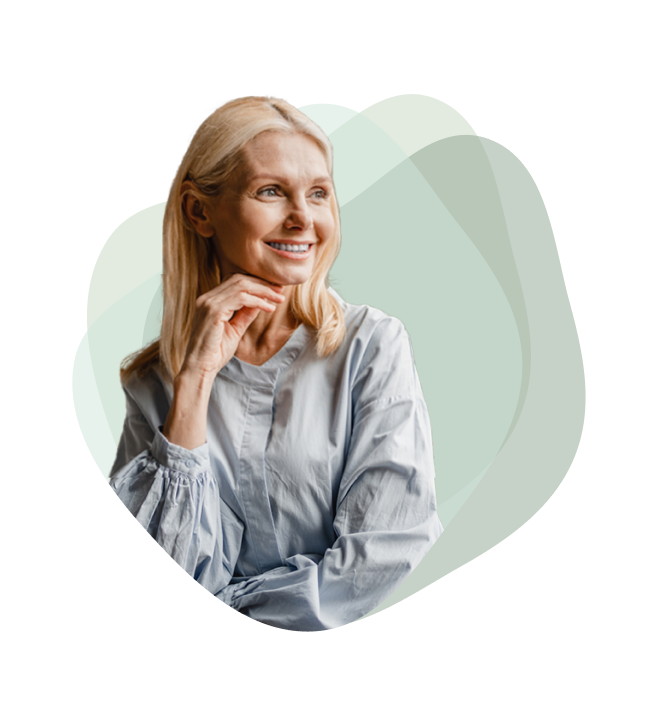
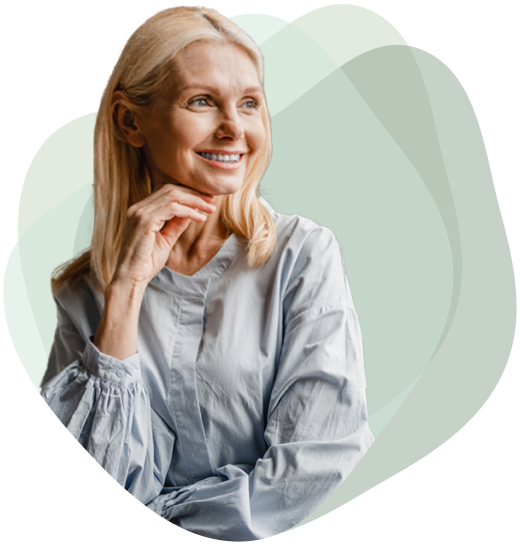
added about section

diff --git a/dist/output.css b/dist/output.css
@@ -525,6 +525,10 @@ Ensure the default browser behavior of the `hidden` attribute.
   position: absolute;
 }
 
+.z-10 {
+  z-index: 10;
+}
+
 .m-auto {
   margin: auto;
 }
@@ -561,6 +565,14 @@ Ensure the default browser behavior of the `hidden` attribute.
   margin-top: 2.25rem;
 }
 
+.mt-40 {
+  margin-top: 10rem;
+}
+
+.mt-12 {
+  margin-top: 3rem;
+}
+
 .block {
   display: block;
 }
@@ -579,6 +591,10 @@ Ensure the default browser behavior of the `hidden` attribute.
 
 .h-12 {
   height: 3rem;
+}
+
+.h-\[100px\] {
+  height: 100px;
 }
 
 .w-12 {
@@ -645,6 +661,26 @@ Ensure the default browser behavior of the `hidden` attribute.
   width: 710px;
 }
 
+.w-\[683px\] {
+  width: 683px;
+}
+
+.w-\[562px\] {
+  width: 562px;
+}
+
+.w-\[750px\] {
+  width: 750px;
+}
+
+.w-\[700px\] {
+  width: 700px;
+}
+
+.w-\[600px\] {
+  width: 600px;
+}
+
 .translate-x-\[-60px\] {
   --tw-translate-x: -60px;
   transform: translate(var(--tw-translate-x), var(--tw-translate-y)) rotate(var(--tw-rotate)) skewX(var(--tw-skew-x)) skewY(var(--tw-skew-y)) scaleX(var(--tw-scale-x)) scaleY(var(--tw-scale-y));
@@ -677,6 +713,51 @@ Ensure the default browser behavior of the `hidden` attribute.
 
 .translate-x-\[-120px\] {
   --tw-translate-x: -120px;
+  transform: translate(var(--tw-translate-x), var(--tw-translate-y)) rotate(var(--tw-rotate)) skewX(var(--tw-skew-x)) skewY(var(--tw-skew-y)) scaleX(var(--tw-scale-x)) scaleY(var(--tw-scale-y));
+}
+
+.translate-x-\[-65px\] {
+  --tw-translate-x: -65px;
+  transform: translate(var(--tw-translate-x), var(--tw-translate-y)) rotate(var(--tw-rotate)) skewX(var(--tw-skew-x)) skewY(var(--tw-skew-y)) scaleX(var(--tw-scale-x)) scaleY(var(--tw-scale-y));
+}
+
+.translate-x-\[-130px\] {
+  --tw-translate-x: -130px;
+  transform: translate(var(--tw-translate-x), var(--tw-translate-y)) rotate(var(--tw-rotate)) skewX(var(--tw-skew-x)) skewY(var(--tw-skew-y)) scaleX(var(--tw-scale-x)) scaleY(var(--tw-scale-y));
+}
+
+.translate-x-\[-22px\] {
+  --tw-translate-x: -22px;
+  transform: translate(var(--tw-translate-x), var(--tw-translate-y)) rotate(var(--tw-rotate)) skewX(var(--tw-skew-x)) skewY(var(--tw-skew-y)) scaleX(var(--tw-scale-x)) scaleY(var(--tw-scale-y));
+}
+
+.translate-y-\[-115px\] {
+  --tw-translate-y: -115px;
+  transform: translate(var(--tw-translate-x), var(--tw-translate-y)) rotate(var(--tw-rotate)) skewX(var(--tw-skew-x)) skewY(var(--tw-skew-y)) scaleX(var(--tw-scale-x)) scaleY(var(--tw-scale-y));
+}
+
+.translate-x-\[664px\] {
+  --tw-translate-x: 664px;
+  transform: translate(var(--tw-translate-x), var(--tw-translate-y)) rotate(var(--tw-rotate)) skewX(var(--tw-skew-x)) skewY(var(--tw-skew-y)) scaleX(var(--tw-scale-x)) scaleY(var(--tw-scale-y));
+}
+
+.translate-y-\[-105px\] {
+  --tw-translate-y: -105px;
+  transform: translate(var(--tw-translate-x), var(--tw-translate-y)) rotate(var(--tw-rotate)) skewX(var(--tw-skew-x)) skewY(var(--tw-skew-y)) scaleX(var(--tw-scale-x)) scaleY(var(--tw-scale-y));
+}
+
+.translate-y-\[-150px\] {
+  --tw-translate-y: -150px;
+  transform: translate(var(--tw-translate-x), var(--tw-translate-y)) rotate(var(--tw-rotate)) skewX(var(--tw-skew-x)) skewY(var(--tw-skew-y)) scaleX(var(--tw-scale-x)) scaleY(var(--tw-scale-y));
+}
+
+.translate-y-\[-220px\] {
+  --tw-translate-y: -220px;
+  transform: translate(var(--tw-translate-x), var(--tw-translate-y)) rotate(var(--tw-rotate)) skewX(var(--tw-skew-x)) skewY(var(--tw-skew-y)) scaleX(var(--tw-scale-x)) scaleY(var(--tw-scale-y));
+}
+
+.translate-y-\[-50px\] {
+  --tw-translate-y: -50px;
   transform: translate(var(--tw-translate-x), var(--tw-translate-y)) rotate(var(--tw-rotate)) skewX(var(--tw-skew-x)) skewY(var(--tw-skew-y)) scaleX(var(--tw-scale-x)) scaleY(var(--tw-scale-y));
 }
 
@@ -787,6 +868,10 @@ Ensure the default browser behavior of the `hidden` attribute.
 
 .leading-10 {
   line-height: 2.5rem;
+}
+
+.leading-\[48px\] {
+  line-height: 48px;
 }
 
 .text-forest {

diff --git a/src/index.html b/src/index.html
@@ -47,7 +47,7 @@
         </section>
         <section class="help mt-24">
             <div class="flex justify-evenly w-[1434px] m-auto">
-                <picture class="translate-x-[-120px]">
+                <picture class="translate-x-[-65px]">
                     <img src="img/help/depression.svg" alt="Девушка в депрессии"  class="w-[590px]">
                 </picture>
                 <div class="flex flex-col">
@@ -79,6 +79,27 @@
                 </div>
             </div>
         </section>
-        
+        <section class="about mt-40">
+            <div class="flex justify-between w-[1434px] m-auto">
+                <div class="flex flex-col self-center">
+                    <div class="h-[100px]">
+                        <h2 class="font-haus text-6xl text-swamp z-10">Обо мне</h2>
+                        <svg width="228" height="141" viewBox="0 0 228 141" fill="none" xmlns="http://www.w3.org/2000/svg" class="zag translate-x-[-22px] translate-y-[-115px]">
+                            <path d="M100.381 2.9729C66.4118 19.7249 17.893 40.2205 3.34919 79.1466C-0.776698 90.1894 9.50924 97.534 18.5839 101.13C28.3963 105.018 38.4084 101.946 46.4972 95.7105C49.1218 93.6874 61.245 82.0943 55.8017 77.8174C40.6677 65.9264 33.5922 98.0287 34.5344 106.037C37.0387 127.324 57.2452 133.038 76.0465 135.689C126.079 142.743 176.388 135.217 225.531 126.282" stroke="#F2D97E" stroke-width="4" stroke-linecap="round"/>
+                        </svg>
+                        <img src="img/aboutme/starsabout.png" alt="Звездочки" class="translate-x-[664px] translate-y-[-220px]">
+                    </div>                        
+                    <p class="font-main text-swamp text-[28px] mt-12">Меня зовут Анна - я <br> практикующий психолог <br>
+                    и психотерапевт с 1998 года.</p>
+                    <p class="font-mainlight text-swamp text-2xl w-[562px] leading-[48px] mt-9">Моя работа психотерапевта объединяет в себе весь мой опыт, все, что я узнала и умею, что может помочь человеку понять и принять себя таким, какой он есть через внимательность и чувственность своего физического тела, ума и души.</p>
+                    <img src="img/aboutme/Vector3.svg" alt="Загагулина-3" class="translate-x-[-130px] translate-y-[-50px]">
+                </div>
+                <div class="image">
+                    <picture>
+                        <img src="img/aboutme/psyche-about.png" alt="Анна Швец - психолог" class="w-[600px]">
+                    </picture>
+                </div>
+            </div>
+        </section>
 </body>
 </html>
